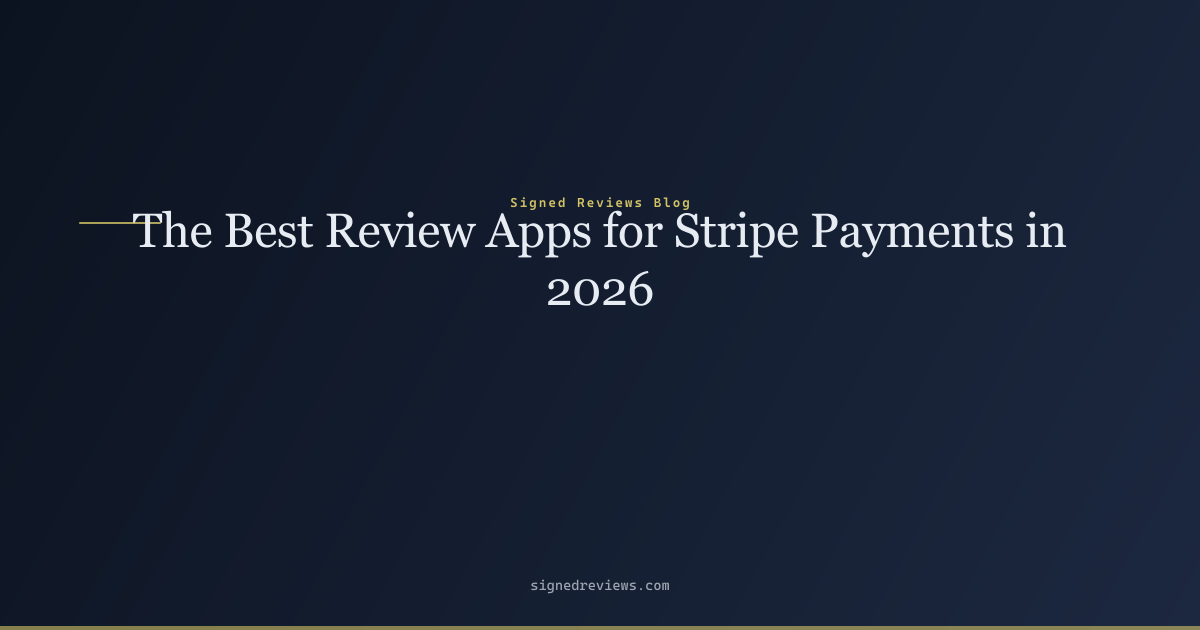
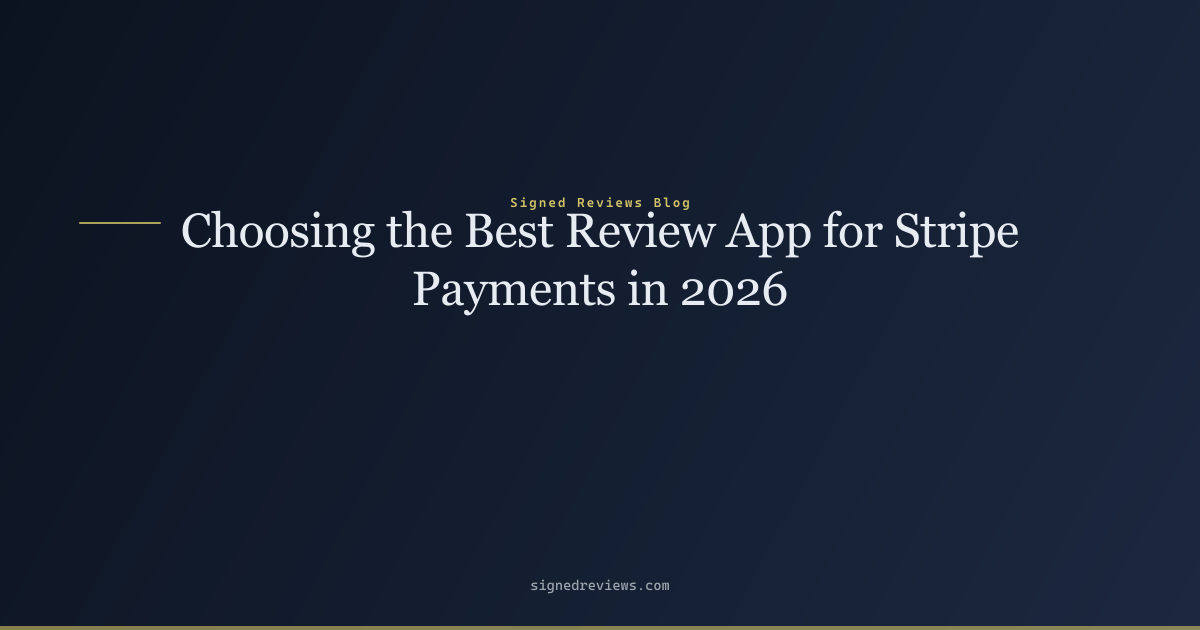
@ SEO: target "review app for stripe payments" keyword on /blog/review-app-for-stripe-payments/
- Title: added keyword to H1
- Meta description: leads with the exact keyword phrase
- H2: "How to choose the right review app for stripe payments"
- Body: keyword woven in 3x naturally
- Added internal link to /integrations/stripe/

@

Changed region(s): [[0.0925, 0.3317, 0.8942, 0.5127]]

diff --git a/blog/review-app-for-stripe-payments/index.html b/blog/review-app-for-stripe-payments/index.html
@@ -3,21 +3,21 @@
 <head>
   <meta charset="UTF-8">
   <meta name="viewport" content="width=device-width, initial-scale=1.0">
-  <title>The Best Review Apps for Stripe Payments in 2026 — Signed Reviews Blog</title>
-  <meta name="description" content="Review apps that work with Stripe payments — ranked by how they verify purchases. Covers Stripe-native apps, Shopify apps that work with Stripe, and direct API ">
+  <title>Choosing the Best Review App for Stripe Payments in 2026 — Signed Reviews Blog</title>
+  <meta name="description" content="Looking for a review app for stripe payments? Compare Stripe-native apps, platform integrations, and API-first tools — ranked by verification strength. Covers t">
   <link rel="canonical" href="https://signedreviews.com/blog/review-app-for-stripe-payments/">
   <meta name="robots" content="index, follow">
   <meta name="theme-color" content="#0c1320">
 
   <meta property="og:type" content="article">
-  <meta property="og:title" content="The Best Review Apps for Stripe Payments in 2026 — Signed Reviews Blog">
-  <meta property="og:description" content="Review apps that work with Stripe payments — ranked by how they verify purchases. Covers Stripe-native apps, Shopify apps that work with Stripe, and direct API ">
+  <meta property="og:title" content="Choosing the Best Review App for Stripe Payments in 2026 — Signed Reviews Blog">
+  <meta property="og:description" content="Looking for a review app for stripe payments? Compare Stripe-native apps, platform integrations, and API-first tools — ranked by verification strength. Covers t">
   <meta property="og:url" content="https://signedreviews.com/blog/review-app-for-stripe-payments/">
   <meta property="og:site_name" content="Signed Reviews">
   <meta property="og:image" content="https://signedreviews.com/images/og/review-app-for-stripe-payments.png">
   <meta name="twitter:card" content="summary_large_image">
-  <meta name="twitter:title" content="The Best Review Apps for Stripe Payments in 2026 — Signed Reviews Blog">
-  <meta name="twitter:description" content="Review apps that work with Stripe payments — ranked by how they verify purchases. Covers Stripe-native apps, Shopify apps that work with Stripe, and direct API ">
+  <meta name="twitter:title" content="Choosing the Best Review App for Stripe Payments in 2026 — Signed Reviews Blog">
+  <meta name="twitter:description" content="Looking for a review app for stripe payments? Compare Stripe-native apps, platform integrations, and API-first tools — ranked by verification strength. Covers t">
   <meta name="twitter:image" content="https://signedreviews.com/images/og/review-app-for-stripe-payments.png">
 
   <link rel="icon" type="image/png" sizes="32x32" href="/images/SignedReviews_logo_only.png?v=20260729a">
@@ -524,9 +524,9 @@ main { padding: 0; }
     })();
   </script>
   <script type="application/ld+json">{"@context":"https://schema.org","@type":"Organization","name":"Signed Reviews","legalName":"Paid Rightly LLC","url":"https://signedreviews.com","logo":"https://signedreviews.com/images/SignedReviews_logo_only.png","description":"Signed Reviews is a SaaS platform that helps businesses collect verified, tamper-evident customer reviews by linking each review to a completed Stripe transaction.","email":"support@signedreviews.com","address":{"@type":"PostalAddress","streetAddress":"1209 Mountain Road Pl NE, Ste N","addressLocality":"Albuquerque","addressRegion":"NM","postalCode":"87110","addressCountry":"US"}}</script>
-  <script type="application/ld+json">{"@context":"https://schema.org","@type":"BreadcrumbList","itemListElement":[{"@type":"ListItem","position":1,"name":"Home","item":"https://signedreviews.com/"},{"@type":"ListItem","position":2,"name":"Blog","item":"https://signedreviews.com/blog/"},{"@type":"ListItem","position":3,"name":"The Best Review Apps for Stripe Payments in 2026","item":"https://signedreviews.com/blog/review-app-for-stripe-payments/"}]}</script>
+  <script type="application/ld+json">{"@context":"https://schema.org","@type":"BreadcrumbList","itemListElement":[{"@type":"ListItem","position":1,"name":"Home","item":"https://signedreviews.com/"},{"@type":"ListItem","position":2,"name":"Blog","item":"https://signedreviews.com/blog/"},{"@type":"ListItem","position":3,"name":"Choosing the Best Review App for Stripe Payments in 2026","item":"https://signedreviews.com/blog/review-app-for-stripe-payments/"}]}</script>
 
-  <script type="application/ld+json">{"@context":"https://schema.org","@type":"BlogPosting","headline":"The Best Review Apps for Stripe Payments in 2026","description":"Review apps that work with Stripe payments — ranked by how they verify purchases. Covers Stripe-native apps, Shopify apps that work with Stripe, and direct API ","datePublished":"2026-07-24","dateModified":"2026-07-24","mainEntityOfPage":{"@type":"WebPage","@id":"https://signedreviews.com/blog/review-app-for-stripe-payments/"},"image":["https://signedreviews.com/images/og/review-app-for-stripe-payments.png"],"author":{"@type":"Organization","name":"Signed Reviews","url":"https://signedreviews.com"},"publisher":{"@type":"Organization","name":"Signed Reviews","logo":{"@type":"ImageObject","url":"https://signedreviews.com/images/SignedReviews_logo_only.png"}}}</script>
+  <script type="application/ld+json">{"@context":"https://schema.org","@type":"BlogPosting","headline":"Choosing the Best Review App for Stripe Payments in 2026","description":"Looking for a review app for stripe payments? Compare Stripe-native apps, platform integrations, and API-first tools — ranked by verification strength. Covers t","datePublished":"2026-07-24","dateModified":"2026-07-24","mainEntityOfPage":{"@type":"WebPage","@id":"https://signedreviews.com/blog/review-app-for-stripe-payments/"},"image":["https://signedreviews.com/images/og/review-app-for-stripe-payments.png"],"author":{"@type":"Organization","name":"Signed Reviews","url":"https://signedreviews.com"},"publisher":{"@type":"Organization","name":"Signed Reviews","logo":{"@type":"ImageObject","url":"https://signedreviews.com/images/SignedReviews_logo_only.png"}}}</script>
 </head>
 <body>
   <a class="skip-link" href="#main">Skip to main content</a>
@@ -567,17 +567,17 @@ main { padding: 0; }
     <section class="page-hero">
       <div class="page-hero-inner">
         <span class="eyebrow">Blog</span>
-        <h1>The Best Review Apps for Stripe Payments in 2026</h1>
-        <p>Review apps that work with Stripe payments — ranked by how they verify purchases. Covers Stripe-native apps, Shopify apps that work with Stripe, and direct API </p>
+        <h1>Choosing the Best Review App for Stripe Payments in 2026</h1>
+        <p>Looking for a review app for stripe payments? Compare Stripe-native apps, platform integrations, and API-first tools — ranked by verification strength. Covers t</p>
       </div>
     </section>
     <div class="prose-wrap">
       <article class="prose" style="max-width: var(--max-prose)">
       <p class="post-meta" style="color:var(--muted);font-size:.9rem;margin-bottom:1.5rem;">2026-07-24</p>
       
-<p><strong>Published:</strong> 2026-07-24 · <strong>Author:</strong> Signed Reviews Team · <strong>Description:</strong> Review apps that work with Stripe payments — ranked by how they verify purchases. Covers Stripe-native apps, Shopify apps that work with Stripe, and direct API integrations.**</p>
+<p><strong>Published:</strong> 2026-07-24 · <strong>Author:</strong> Signed Reviews Team · <strong>Description:</strong> Looking for a review app for stripe payments? Compare Stripe-native apps, platform integrations, and API-first tools — ranked by verification strength. Covers the Stripe App Marketplace, Shopify, WooCommerce, and custom integrations.</p>
 <hr>
-<p>If you process payments through Stripe and want to collect reviews, you have three kinds of options: Stripe-native review apps (listed on the Stripe App Marketplace), e-commerce platform apps that work with Stripe as a payment method, and API-based platforms you can integrate yourself. They don&#39;t all verify reviews the same way — and the differences matter more than the feature lists.</p>
+<p>If you&#39;re looking for a review app for stripe payments, you have three kinds of options: Stripe-native review apps (listed on the Stripe App Marketplace), e-commerce platform apps that work with Stripe as a payment method, and API-based platforms you can integrate yourself. They don&#39;t all verify reviews the same way — and the differences matter more than the feature lists. Choosing the right review app for stripe payments starts with understanding how each type handles verification.</p>
 <hr>
 <h2 id="the-three-types-of-stripe-compatible-review-tools"><a class="anchor" href="#the-three-types-of-stripe-compatible-review-tools" aria-label="Permalink to The three types of Stripe-compatible review tools">#</a> The three types of Stripe-compatible review tools</h2>
 <h3 id="type-1-stripe-native-apps"><a class="anchor" href="#type-1-stripe-native-apps" aria-label="Permalink to Type 1: Stripe-native apps">#</a> Type 1: Stripe-native apps</h3>
@@ -658,7 +658,7 @@ main { padding: 0; }
 </tbody></table>
 <p>The Stripe review-app category is underpopulated compared to the Shopify review-app category (which has dozens of mature options). This is both a limitation (fewer choices) and an opportunity (less competition, and the apps that do exist can differentiate on verification quality rather than feature-quantity arms races).</p>
 <hr>
-<h2 id="how-to-choose-the-right-approach"><a class="anchor" href="#how-to-choose-the-right-approach" aria-label="Permalink to How to choose the right approach">#</a> How to choose the right approach</h2>
+<h2 id="how-to-choose-the-right-review-app-for-stripe-payments"><a class="anchor" href="#how-to-choose-the-right-review-app-for-stripe-payments" aria-label="Permalink to How to choose the right review app for stripe payments">#</a> How to choose the right review app for stripe payments</h2>
 <table>
 <thead>
 <tr>
@@ -705,7 +705,7 @@ main { padding: 0; }
 </ol>
 <hr>
 <h2 id="bottom-line"><a class="anchor" href="#bottom-line" aria-label="Permalink to Bottom line">#</a> Bottom line</h2>
-<p>Most review apps treat Stripe as a payment method — a way for customers to pay. A Stripe-native review app treats Stripe as a verification source — an independent record of who paid, how much, and whether the charge still stands. The difference is fundamental. If you&#39;re on Stripe, you have access to the strongest verification signal in e-commerce. Whether your review app uses it is a choice.</p>
+<p>Most review apps treat Stripe as a payment method — a way for customers to pay. A true review app for stripe payments treats Stripe as a verification source — an independent record of who paid, how much, and whether the charge still stands. The difference is fundamental. If you&#39;re on Stripe, you have access to the strongest verification signal in e-commerce. Whether your review app uses it is a choice. <a href="/integrations/stripe/">See how the Stripe integration works</a> — one-click OAuth, read-only, and every review is backed by proof of purchase.</p>
 <p><strong>Further reading:</strong></p>
 <ul>
 <li><a href="/blog/stripe-app-for-reviews/">Stripe App for Verified Reviews</a> — what a Stripe-native review app does and how the OAuth connection works</li>

diff --git a/blog/index.html b/blog/index.html
@@ -619,9 +619,9 @@ main { padding: 0; }
       <p style="margin:0;color:var(--text);font-size:.95rem;">Looking for a Stripe app for reviews? SignedReviews collects Stripe-verified reviews automatically after every payment. Setup in 5 minutes with read-only OAuth </p>
     </div>
     <div style="margin-bottom:1.5rem;padding-bottom:1.5rem;border-bottom:1px solid var(--border);">
-      <h2 style="margin:0 0 .3rem;font-size:1.25rem;"><a href="/blog/review-app-for-stripe-payments/" style="text-decoration:none;">The Best Review Apps for Stripe Payments in 2026</a></h2>
+      <h2 style="margin:0 0 .3rem;font-size:1.25rem;"><a href="/blog/review-app-for-stripe-payments/" style="text-decoration:none;">Choosing the Best Review App for Stripe Payments in 2026</a></h2>
       <p class="post-meta" style="color:var(--muted);font-size:.85rem;margin:0 0 .4rem;">2026-07-24</p>
-      <p style="margin:0;color:var(--text);font-size:.95rem;">Review apps that work with Stripe payments — ranked by how they verify purchases. Covers Stripe-native apps, Shopify apps that work with Stripe, and direct API </p>
+      <p style="margin:0;color:var(--text);font-size:.95rem;">Looking for a review app for stripe payments? Compare Stripe-native apps, platform integrations, and API-first tools — ranked by verification strength. Covers t</p>
     </div>
     <div style="margin-bottom:1.5rem;padding-bottom:1.5rem;border-bottom:1px solid var(--border);">
       <h2 style="margin:0 0 .3rem;font-size:1.25rem;"><a href="/blog/purchase-verified-vs-email-verified-reviews/" style="text-decoration:none;">Verified Buyer Meaning: Proof of Purchase Reviews vs Email-Verified, Explained</a></h2>

diff --git a/files/blog/review-app-for-stripe-payments.md b/files/blog/review-app-for-stripe-payments.md
@@ -1,10 +1,10 @@
-# The Best Review Apps for Stripe Payments in 2026
+# Choosing the Best Review App for Stripe Payments in 2026
 
-**Published:** 2026-07-24 · **Author:** Signed Reviews Team · **Description:** Review apps that work with Stripe payments — ranked by how they verify purchases. Covers Stripe-native apps, Shopify apps that work with Stripe, and direct API integrations.**
+**Published:** 2026-07-24 · **Author:** Signed Reviews Team · **Description:** Looking for a review app for stripe payments? Compare Stripe-native apps, platform integrations, and API-first tools — ranked by verification strength. Covers the Stripe App Marketplace, Shopify, WooCommerce, and custom integrations.
 
 ---
 
-If you process payments through Stripe and want to collect reviews, you have three kinds of options: Stripe-native review apps (listed on the Stripe App Marketplace), e-commerce platform apps that work with Stripe as a payment method, and API-based platforms you can integrate yourself. They don't all verify reviews the same way — and the differences matter more than the feature lists.
+If you're looking for a review app for stripe payments, you have three kinds of options: Stripe-native review apps (listed on the Stripe App Marketplace), e-commerce platform apps that work with Stripe as a payment method, and API-based platforms you can integrate yourself. They don't all verify reviews the same way — and the differences matter more than the feature lists. Choosing the right review app for stripe payments starts with understanding how each type handles verification.
 
 ---
 
@@ -74,7 +74,7 @@ The Stripe review-app category is underpopulated compared to the Shopify review-
 
 ---
 
-## How to choose the right approach
+## How to choose the right review app for stripe payments
 
 | You are... | Best approach | Why |
 |------------|--------------|-----|
@@ -100,7 +100,7 @@ Regardless of which type you choose, ask these five questions before connecting 
 
 ## Bottom line
 
-Most review apps treat Stripe as a payment method — a way for customers to pay. A Stripe-native review app treats Stripe as a verification source — an independent record of who paid, how much, and whether the charge still stands. The difference is fundamental. If you're on Stripe, you have access to the strongest verification signal in e-commerce. Whether your review app uses it is a choice.
+Most review apps treat Stripe as a payment method — a way for customers to pay. A true review app for stripe payments treats Stripe as a verification source — an independent record of who paid, how much, and whether the charge still stands. The difference is fundamental. If you're on Stripe, you have access to the strongest verification signal in e-commerce. Whether your review app uses it is a choice. <a href="/integrations/stripe/">See how the Stripe integration works</a> — one-click OAuth, read-only, and every review is backed by proof of purchase.
 
 **Further reading:**
 - [Stripe App for Verified Reviews](/blog/stripe-app-for-reviews/) — what a Stripe-native review app does and how the OAuth connection works
